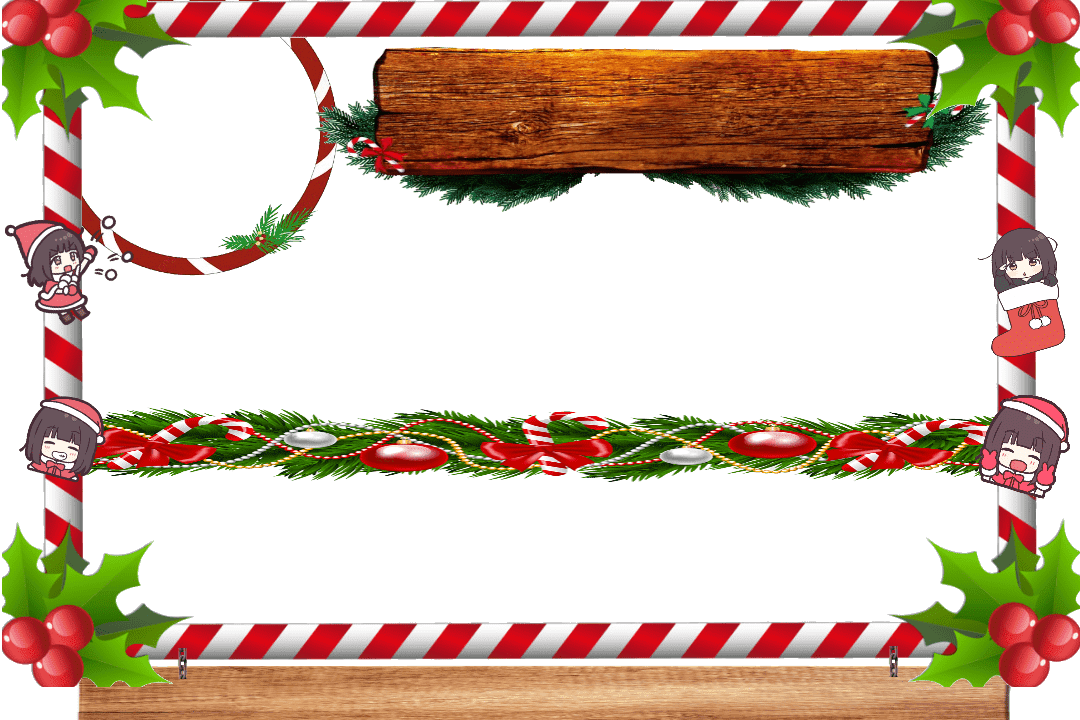
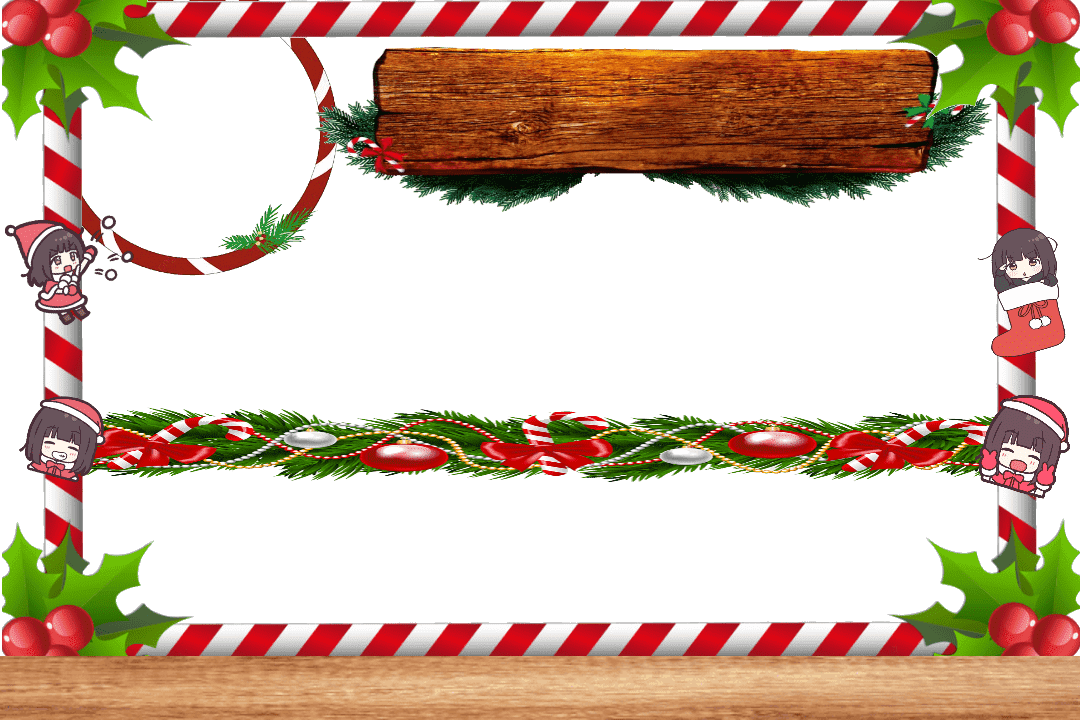
feat: implement user title in christmas

Changed region(s): [[0.0, 0.8861, 1.0, 1.0]]

diff --git a/src/renderers/profiles/christmas.go b/src/renderers/profiles/christmas.go
@@ -13,8 +13,6 @@ import (
 func RenderChristmas(User *utils.UserData, I18n *utils.I18n, customEdits []string, db *database.Database) image.Image {
 	ctx := gg.NewContext(1080, 720)
 
-	//baseColor :=
-
 	if utils.GetProfileCustomization("useImage", customEdits) {
 		backgroundImage := utils.GetImageFromURL(User.Image, 1080, 720, db)
 
@@ -35,40 +33,32 @@ func RenderChristmas(User *utils.UserData, I18n *utils.I18n, customEdits []strin
 		ctx.Stroke()
 	}
 
-	userAvatar := utils.GetImageFromURL(User.Avatar, 250, 250, db)
-
-	ctx.DrawCircle(193, 133, 125)
-	ctx.Clip()
-	ctx.DrawImageAnchored(userAvatar, 193, 133, 0.5, 0.5)
-	ctx.ResetClip()
-
 	backgroundImage := utils.GetAsset("/profiles/christmas.png")
 
 	ctx.DrawImage(backgroundImage, 0, 0)
 
+	userAvatar := utils.GetImageFromURL(User.Avatar, 255, 255, db)
+	ctx.DrawCircle(195, 133, 127.5)
+	ctx.Clip()
+	ctx.DrawImageAnchored(userAvatar, 195, 133, 0.5, 0.5)
+	ctx.ResetClip()
+
+	ctx.SetFontFace(*utils.GetFont("Candy", float64(28)))
+	utils.StrokeText(ctx, User.Username, 660, 130, 2, 0.5, 0, "#FFF")
 	ctx.SetHexColor("#FF0000")
+	ctx.DrawStringAnchored(User.Username, 660, 130, 0.5, 0)
 
-	fontSize := 40
+	ctx.SetHexColor("#fff")
+	ctx.SetFontFace(*utils.GetFont("Sans", 24))
+	ctx.DrawStringAnchored(User.Title, 660, 80, 0.5, 0)
 
-	if len(User.Username) > -18 {
-		fontSize = 28
+	if User.Married {
+		ctx.DrawStringWrapped(User.MarryUsername+" "+strings.Split(User.MarryDate, " ")[0], 400, 160, 0, 1, 600, 1, 0)
 	}
-
-	ctx.SetFontFace(*utils.GetFont("Candy", float64(fontSize)))
-
-	utils.StrokeText(ctx, User.Username, 660, 100, 2, 0.5, 0, "#FFF")
-
-	ctx.SetHexColor("#FF0000")
-	ctx.DrawStringAnchored(User.Username, 660, 100, 0.5, 0)
 
 	ctx.SetHexColor(utils.GetCompatibleFontColor(User.Color))
 	ctx.SetFontFace(*utils.GetFont("Impact", 32))
 	ctx.DrawStringWrapped(User.Info, 90, 540, 0, 1, 920, 1, 0)
-
-	if User.Married {
-		ctx.SetFontFace(*utils.GetFont("Sans", 24))
-		ctx.DrawStringWrapped(User.MarryUsername+" "+strings.Split(User.MarryDate, " ")[0], 400, 140, 0, 1, 600, 1, 0)
-	}
 
 	ctx.SetFontFace(*utils.GetFont("Sans", 32))
 	ctx.DrawStringAnchored(I18n.Mamado+": "+strconv.Itoa(int(User.Mamadas))+" "+I18n.Mamou+": "+strconv.Itoa(int(User.Mamou)), 380, 243, 0, 0)
@@ -77,7 +67,7 @@ func RenderChristmas(User *utils.UserData, I18n *utils.I18n, customEdits []strin
 
 	ctx.DrawStringWrapped(I18n.Usages+"   | "+strconv.Itoa(int(User.Votes))+" Upvotes", 90, 270, 0, 0, 920, 1, 0)
 
-	utils.DrawBadges(ctx, User, 80, 667)
+	utils.DrawBadges(ctx, User, 80, 656)
 
 	return ctx.Image()
 }
